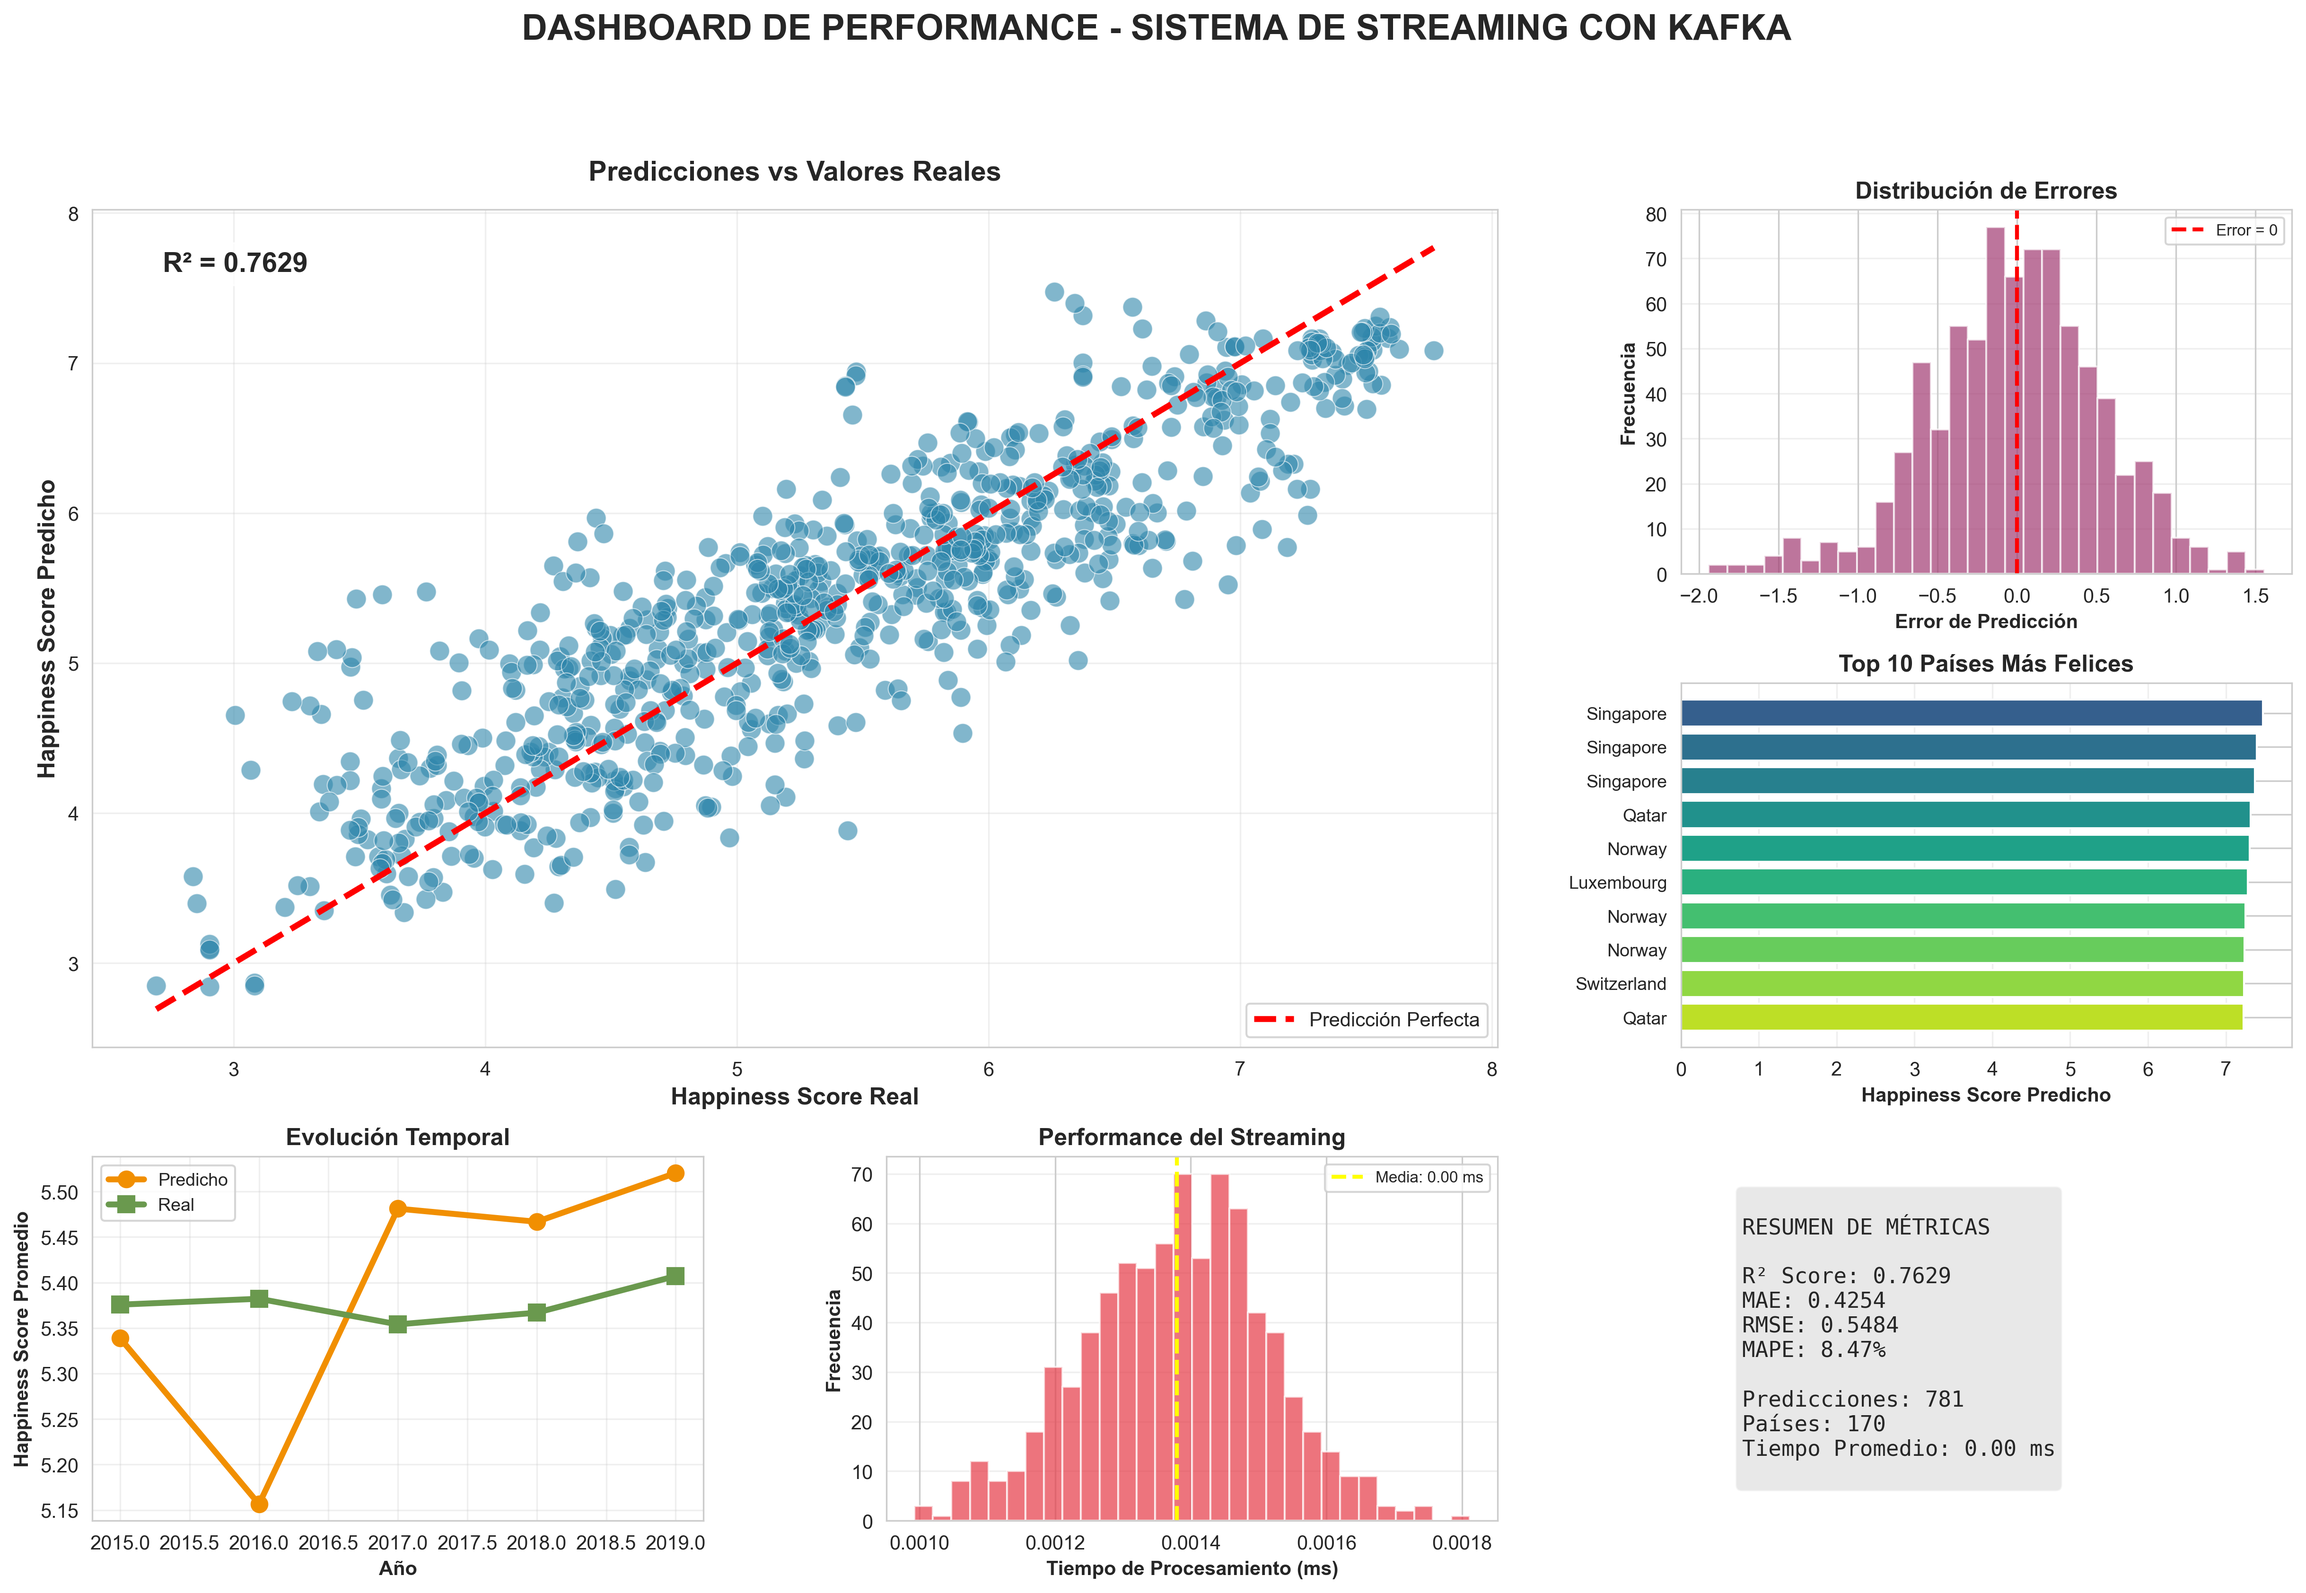
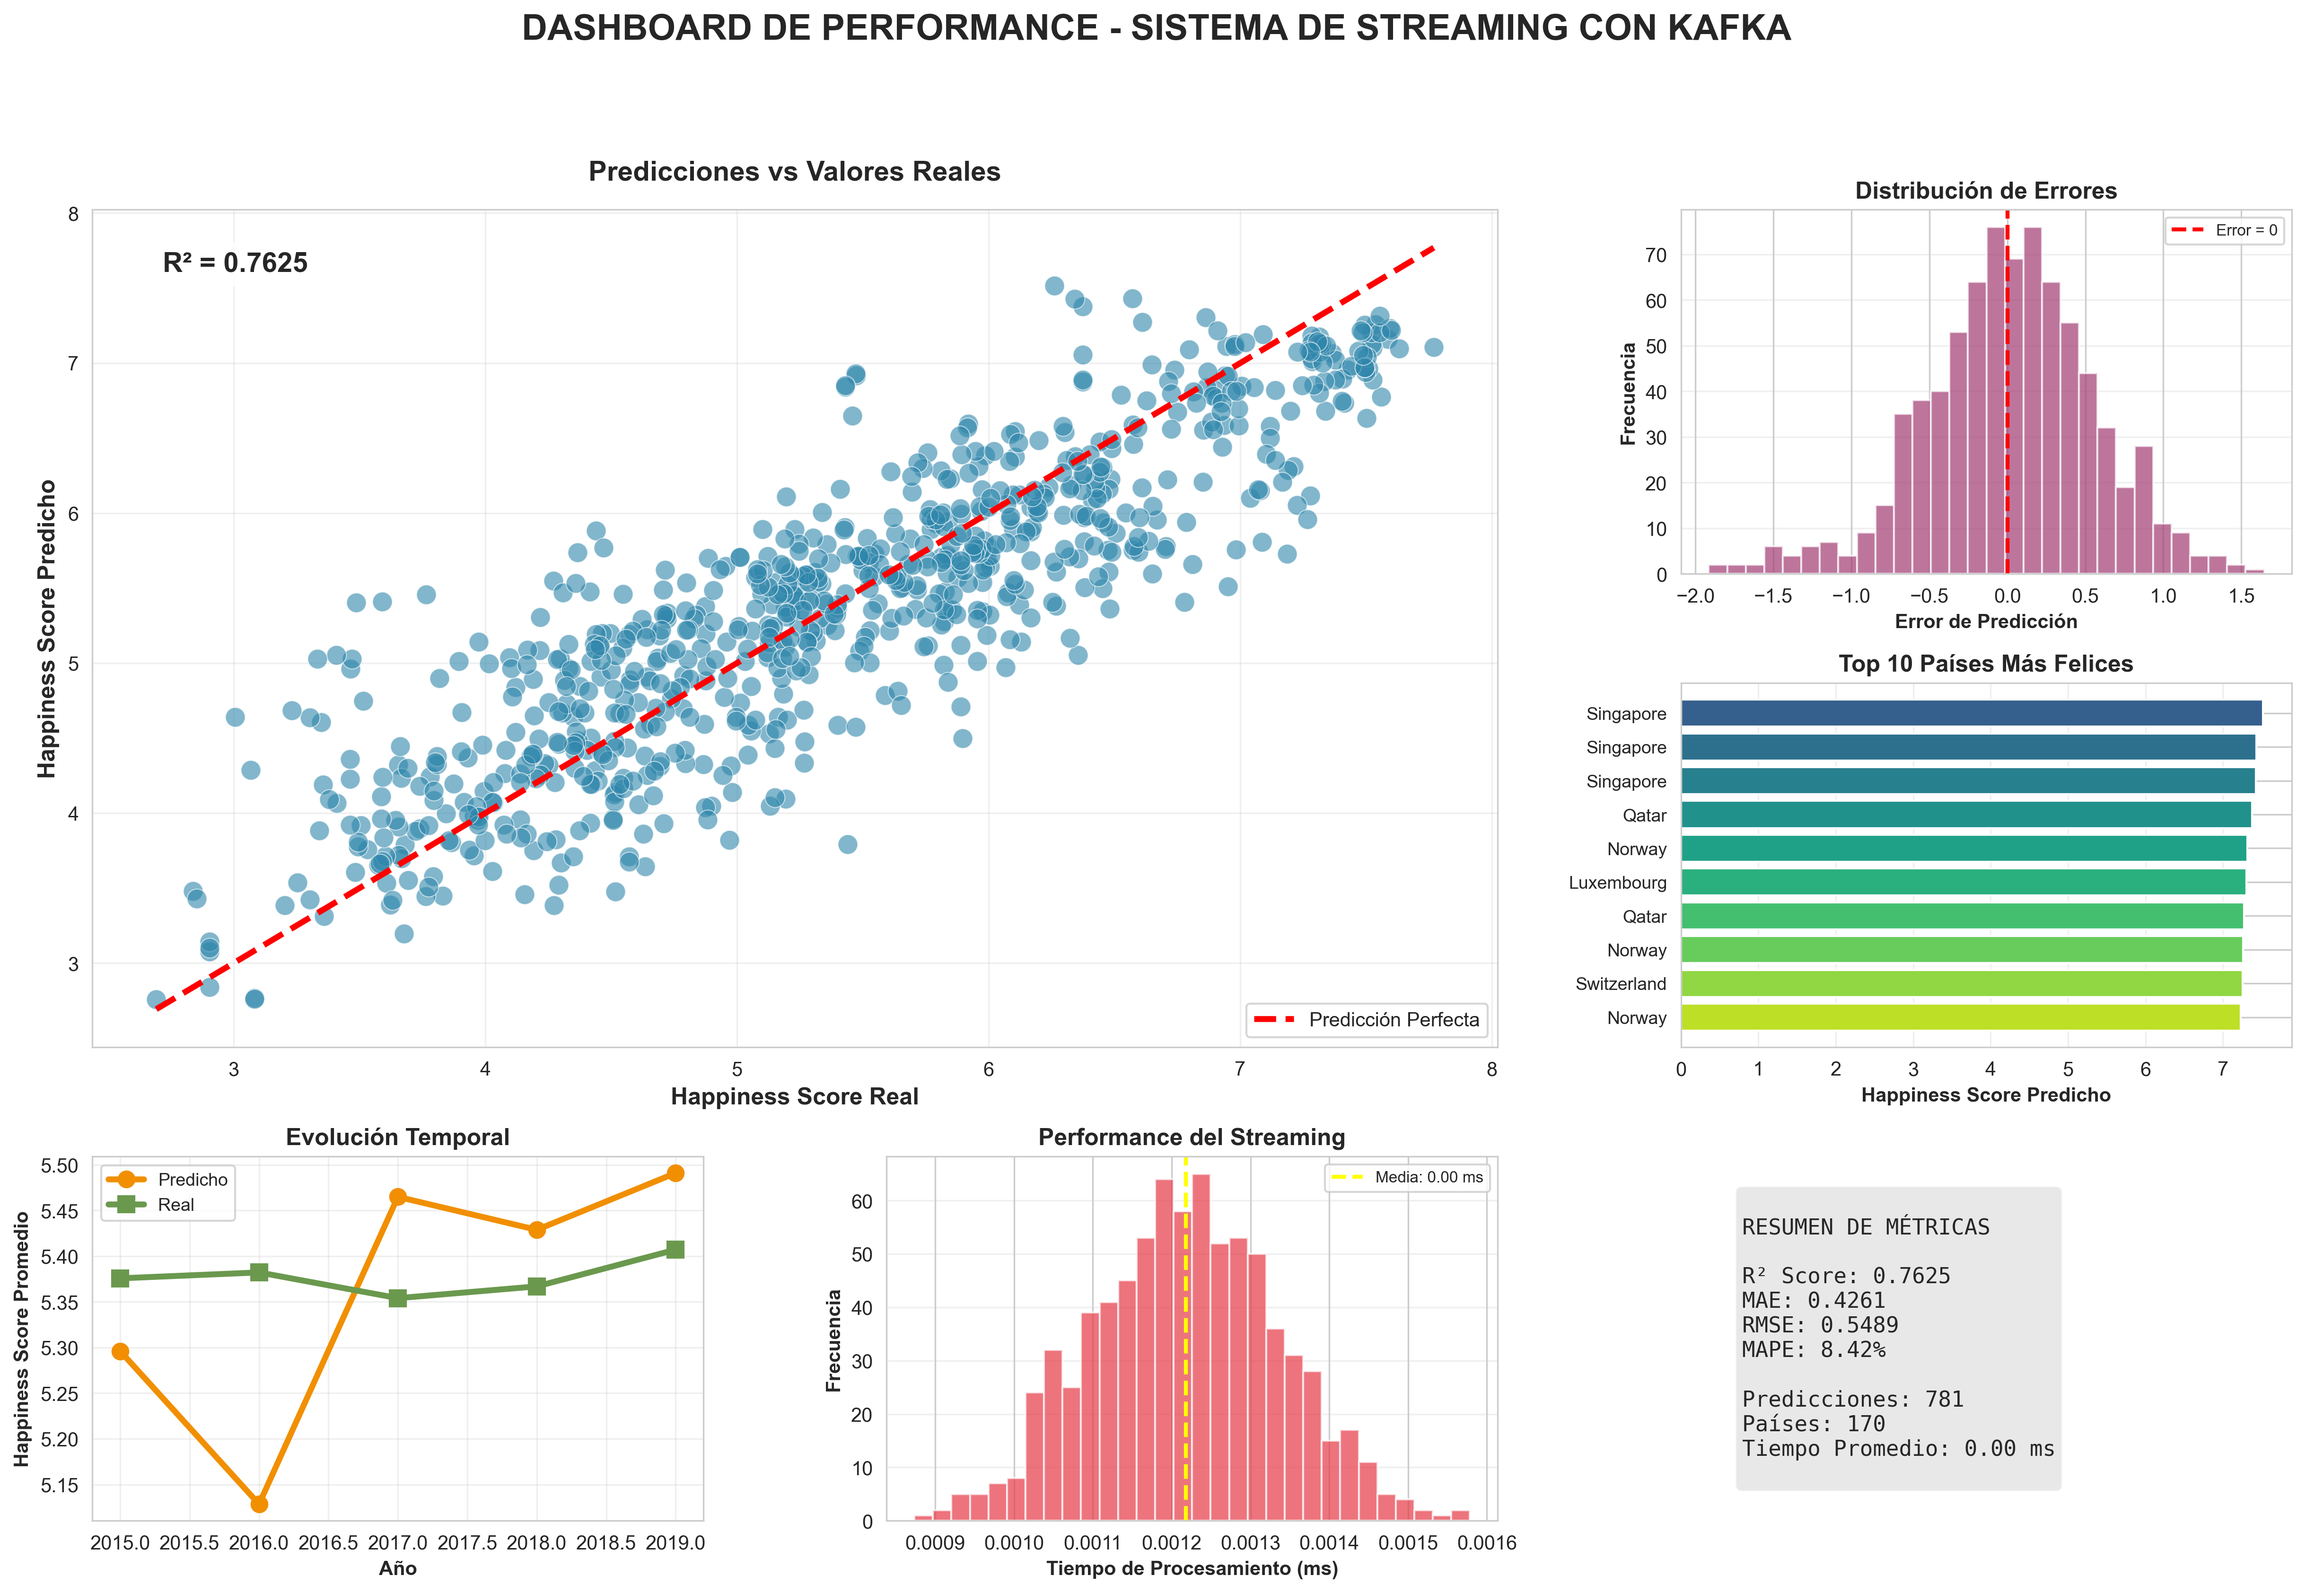
Fixing problem with the pats

diff --git a/kafka/kafka_consumer.py b/kafka/kafka_consumer.py
@@ -1,6 +1,7 @@
 import json
 import pickle
 import time
+import os
 import numpy as np
 from kafka import KafkaConsumer
 import mysql.connector
@@ -41,6 +42,7 @@ class HappinessKafkaConsumer:
         self.topic = topic
         self.model = None
         self.mysql_config = mysql_config or self._default_mysql_config()
+        self.model_reload_attempts = 0  # Contador de intentos de recarga
         
         # Cargar modelo
         self._load_model(model_path)
@@ -80,7 +82,7 @@ class HappinessKafkaConsumer:
     
     def _load_model(self, model_path: str) -> None:
         """
-        Carga el modelo de ML desde archivo .pkl
+        Carga el modelo ML desde un archivo .pkl.
         
         Args:
             model_path: Ruta al archivo del modelo
@@ -88,13 +90,28 @@ class HappinessKafkaConsumer:
         try:
             with open(model_path, 'rb') as f:
                 self.model = pickle.load(f)
-            logger.info(f"✅ Modelo cargado desde {model_path}")
+            
+            # Verificar que el modelo se cargó correctamente
+            if self.model is None:
+                logger.error(f"❌ El modelo cargado es None")
+                raise ValueError("Modelo cargado es None")
+            
+            # Verificar que tiene el método predict
+            if not hasattr(self.model, 'predict'):
+                logger.error(f"❌ El modelo no tiene método 'predict'")
+                raise ValueError("Modelo inválido: no tiene método 'predict'")
+            
+            logger.info(f"✅ Modelo cargado exitosamente desde {model_path}")
+            logger.info(f"   Tipo de modelo: {type(self.model).__name__}")
+            
         except FileNotFoundError:
             logger.error(f"❌ Archivo de modelo no encontrado: {model_path}")
-            logger.info("💡 Guardando modelo actual...")
-            self._save_current_model(model_path)
+            logger.info("💡 Por favor, ejecuta primero: python model_regresion/model_utils.py")
+            self.model = None
+            raise
         except Exception as e:
             logger.error(f"❌ Error al cargar modelo: {e}")
+            self.model = None
             raise
     
     def _save_current_model(self, model_path: str) -> None:
@@ -133,8 +150,7 @@ class HappinessKafkaConsumer:
         """Crea la tabla de predicciones si no existe"""
         create_table_query = """
         CREATE TABLE IF NOT EXISTS predictions (
-            id INT AUTO_INCREMENT PRIMARY KEY,
-            record_id INT NOT NULL,
+            record_id INT AUTO_INCREMENT PRIMARY KEY,
             timestamp TIMESTAMP DEFAULT CURRENT_TIMESTAMP,
             country VARCHAR(100),
             year INT,
@@ -207,10 +223,30 @@ class HappinessKafkaConsumer:
             Score predicho
         """
         try:
+            # Verificar que el modelo existe
+            if self.model is None:
+                if self.model_reload_attempts < 3:
+                    self.model_reload_attempts += 1
+                    logger.warning(f"⚠ Modelo no está cargado. Intento de recarga #{self.model_reload_attempts}...")
+                    try:
+                        self._load_model('modelo_regresion_lineal.pkl')
+                        if self.model is not None:
+                            self.model_reload_attempts = 0  # Resetear contador si éxito
+                    except:
+                        pass
+                
+                if self.model is None:
+                    logger.error(f"❌ No se pudo recargar el modelo después de {self.model_reload_attempts} intentos")
+                    return 0.0
+            
+            # Realizar predicción
             prediction = self.model.predict(features)[0]
             return float(prediction)
+            
         except Exception as e:
             logger.error(f"❌ Error en predicción: {e}")
+            logger.error(f"   Tipo de modelo: {type(self.model)}")
+            logger.error(f"   Features shape: {features.shape if features is not None else 'None'}")
             return 0.0
     
     def save_to_mysql(self, record: Dict[str, Any], 
@@ -356,11 +392,15 @@ class HappinessKafkaConsumer:
 def main():
     """Función principal para ejecutar el consumidor"""
     
-    # Configuración
+    # Configuración Kafka
     KAFKA_SERVER = 'localhost:9092'
     TOPIC = 'happiness-data'
     GROUP_ID = 'happiness-prediction-group'
-    MODEL_PATH = 'modelo_regresion_lineal.pkl'
+    
+    # Ruta absoluta al modelo
+    script_dir = os.path.dirname(os.path.abspath(__file__))  # kafka/
+    project_root = os.path.dirname(script_dir)  # Workshop 3/
+    MODEL_PATH = os.path.join(project_root, 'model_regresion', 'modelo_regresion_lineal.pkl')
     
     # Configuración MySQL
     MYSQL_CONFIG = {

diff --git a/kafka/kafka_producer.py b/kafka/kafka_producer.py
@@ -228,7 +228,10 @@ def verificar_combined_data():
     import os
     import subprocess
     
-    combined_path = 'data/combined_data.csv'
+    # Ruta absoluta al archivo de datos
+    script_dir = os.path.dirname(os.path.abspath(__file__))  # kafka/
+    project_root = os.path.dirname(script_dir)  # Workshop 3/
+    combined_path = os.path.join(project_root, 'data', 'combined_data.csv')
     
     # Verificar si existe el archivo
     if os.path.exists(combined_path):
@@ -262,8 +265,8 @@ def main():
     # Configuración
     KAFKA_SERVER = 'localhost:9092'
     TOPIC = 'happiness-data'
-    DELAY = 0.5  # Segundos entre registros
-    MAX_RECORDS = 100  # None para enviar todos, 100 para prueba rápida
+    DELAY = 0.1  # Segundos entre registros 
+    MAX_RECORDS = None  
     
     # Verificar y cargar datos combinados del ETL
     logger.info("📊 Verificando datos combinados (2015-2019)...")

diff --git a/model_regresion/model_utils.py b/model_regresion/model_utils.py
@@ -16,7 +16,11 @@ def train_and_save_model(model_path: str = 'modelo_regresion_lineal.pkl'):
     
     # Cargar datos combinados del ETL
     import os
-    combined_path = '../data/combined_data.csv'
+    
+    # Obtener la ruta del directorio raíz del proyecto
+    script_dir = os.path.dirname(os.path.abspath(__file__))  # model_regresion/
+    project_root = os.path.dirname(script_dir)  # Workshop 3/
+    combined_path = os.path.join(project_root, 'data', 'combined_data.csv')
     
     if not os.path.exists(combined_path):
         logger.error(f"❌ No se encontró {combined_path}")
